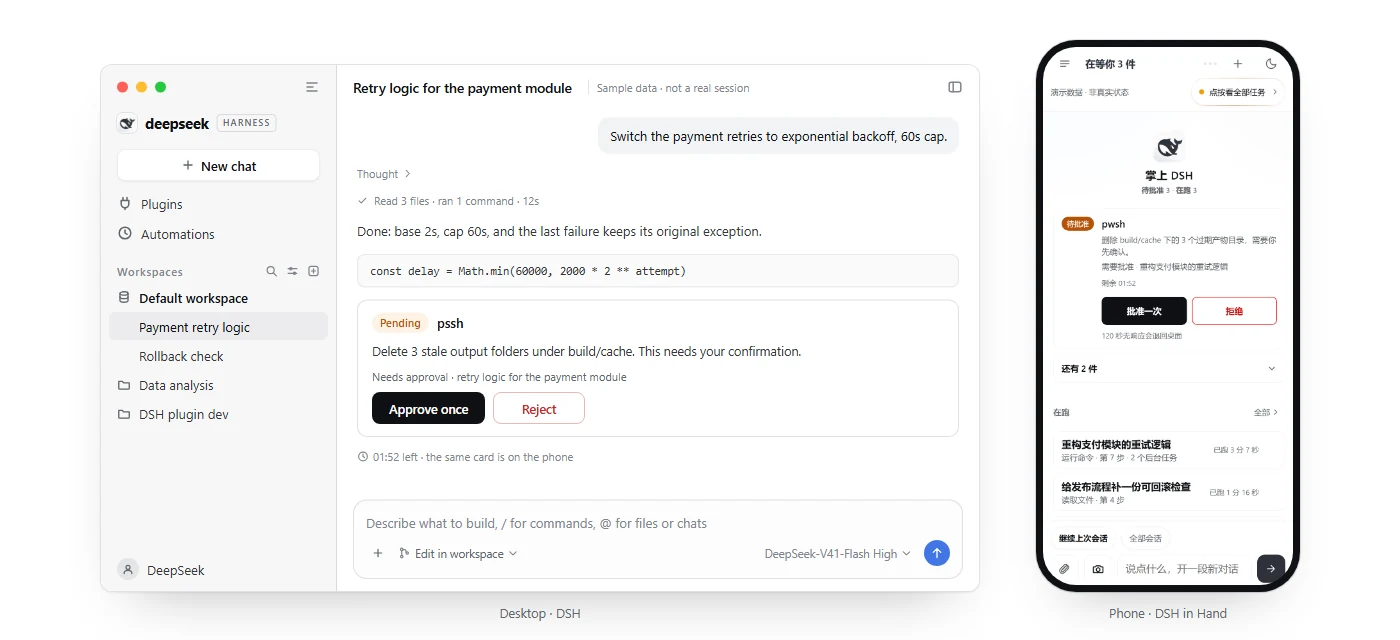
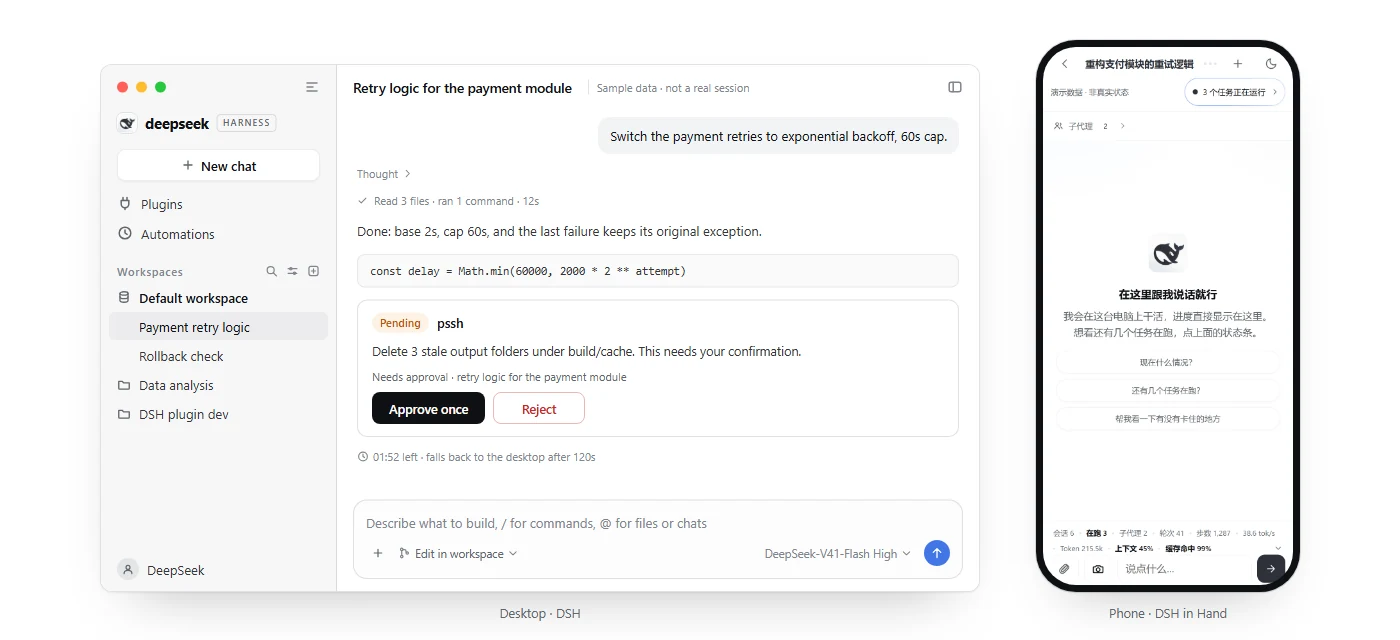
docs(readme): hero 手机端改用新会话首屏（鲸鱼 + 建议问题 + 输入框）
右侧手机屏换成 make-shots 新拍的 session-new.png（真 Chrome 拍 390×844），内容与本机真实页面一致：鲸鱼标、在这里跟我说话就行、三个建议问题、统计行与输入框。
桌面端那行「同一张卡已推到手机」改成倒计时与回退说明，避免与手机屏不符；README 定位句同步改成「手机上随时开口，要你批准的也在这里点掉」。
自检 17 项 × 2 全过；npm run check EXIT=0。

diff --git a/README.en.md b/README.en.md
@@ -3,10 +3,10 @@
 English · [简体中文](README.md)
 
 <p align="center">
-  <img src="docs/assets/hero-en.webp" width="100%" alt="On the left the desktop DSH: sidebar, a conversation and a pending approval card; on the right the DSH in Hand home screen with the brand block, the same approval card and a composer">
+  <img src="docs/assets/hero-en.webp" width="100%" alt="On the left the desktop DSH: sidebar, a conversation and a pending approval card; on the right a new conversation in DSH in Hand: the whale mark, three suggested questions and the composer">
 </p>
 
-<p align="center">Desktop on the left, phone on the right: one DSH, and the approval is one tap away on your phone.</p>
+<p align="center">Desktop on the left, phone on the right: one DSH. Talk to it from your phone, and approvals are one tap away too.</p>
 
 <p align="center">
   <a href="https://github.com/dingchenhui0618-arch/dsh-in-hand/releases/latest"><img alt="Latest release" src="https://img.shields.io/github/v/release/dingchenhui0618-arch/dsh-in-hand?display_name=tag&amp;sort=semver&amp;label=&amp;style=flat-square&amp;color=2ea44f"></a>

diff --git a/README.md b/README.md
@@ -3,10 +3,10 @@
 [English](README.en.md) · 简体中文
 
 <p align="center">
-  <img src="docs/assets/hero-zh.webp" width="100%" alt="左边是电脑端的 DSH 桌面：左侧栏、一段对话与「待批准」卡；右边是手机端的掌上 DSH 首页：品牌块、同一张待批准卡与底部对话框">
+  <img src="docs/assets/hero-zh.webp" width="100%" alt="左边是电脑端的 DSH 桌面：左侧栏、一段对话与「待批准」卡；右边是手机端的掌上 DSH 新会话：鲸鱼标、「在这里跟我说话就行」、三个建议问题与底部输入框">
 </p>
 
-<p align="center">左边电脑、右边手机：同一个 DSH，待批准在手机上一次点掉。</p>
+<p align="center">左边电脑、右边手机：同一个 DSH。手机上随时开口，要你批准的也在这里点掉。</p>
 
 <p align="center">
   <a href="https://github.com/dingchenhui0618-arch/dsh-in-hand/releases/latest"><img alt="最新版本" src="https://img.shields.io/github/v/release/dingchenhui0618-arch/dsh-in-hand?display_name=tag&amp;sort=semver&amp;label=&amp;style=flat-square&amp;color=2ea44f"></a>
